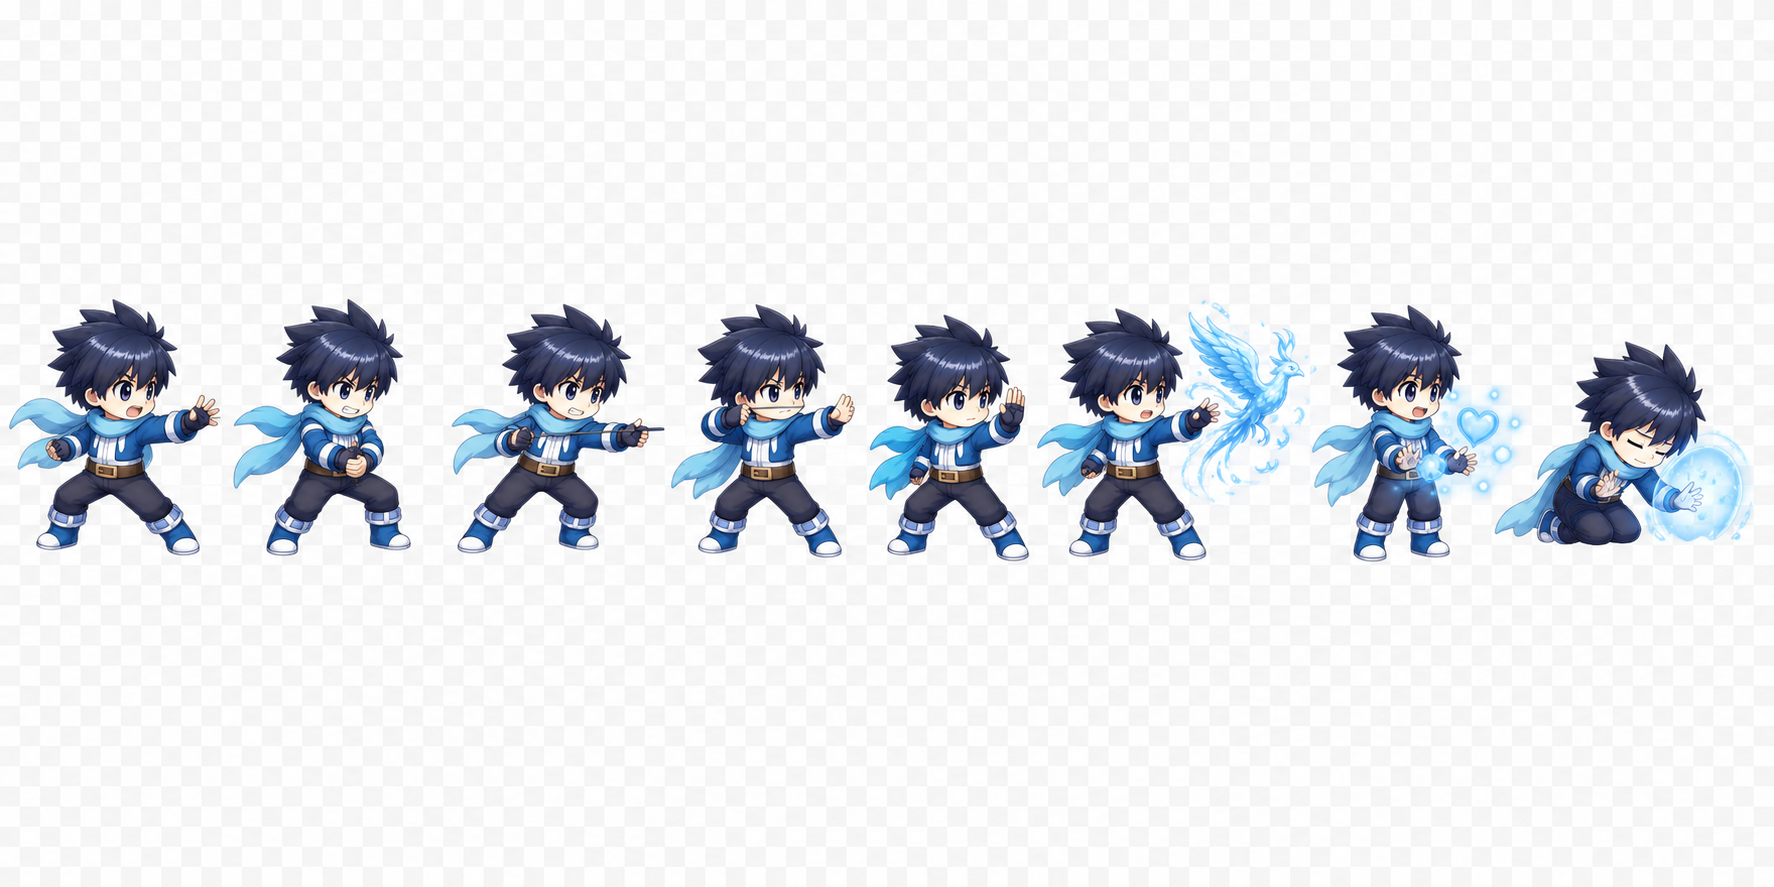
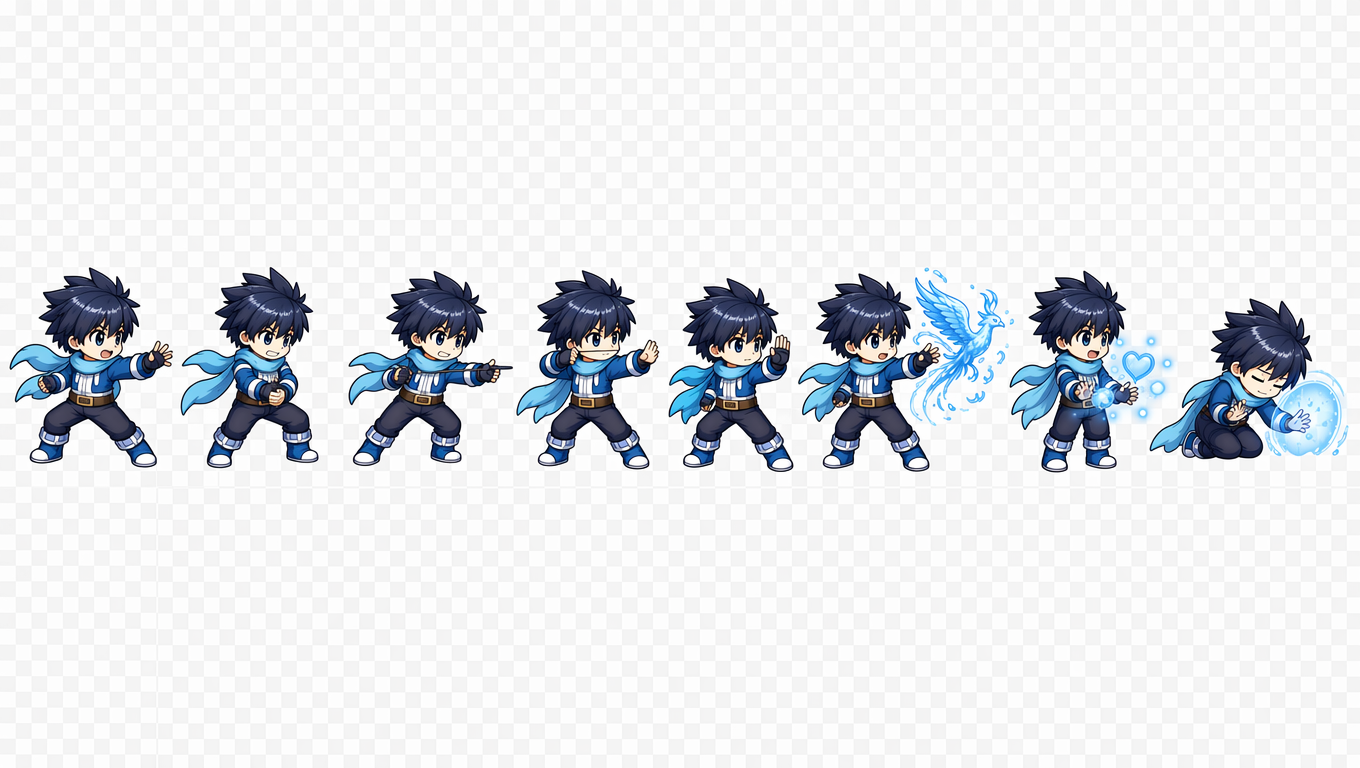
upgrade

Changed region(s): [[0.0, 0.3438, 0.9882, 0.6562]]

diff --git a/js/assets.js b/js/assets.js
@@ -19,8 +19,8 @@ const ASSETS = {
     float_ember: { trim: 1 }, float_star: { trim: 1 },
     prop_mushroom: { trim: 1 }, prop_gate: { trim: 1 }, prop_shrine: { trim: 1 },
     // heroes & supporters — legacy 8-pose sheets (fallback)
-    joku_sheet: { cols: 4, rows: 2, trim: 1, bleed: .025 },
-    jolie_sheet: { cols: 4, rows: 2, trim: 1, bleed: .025 },
+    joku_sheet: { cols: 4, rows: 2, trim: 1, bleed: .05, stableX: 1 },
+    jolie_sheet: { cols: 4, rows: 2, trim: 1, bleed: .05, stableX: 1 },
     lulu_sheet: { cols: 4, rows: 1, trim: 1, lockScale: 1 },
     biscuit_sheet: { cols: 4, rows: 1, trim: 1, lockScale: 1 },
     // heroes & supporters — animation strips (preferred when present)
@@ -111,10 +111,10 @@ const ASSETS = {
           const b = this._bbox(src, scan.sx, scan.sy, scan.sw, scan.sh, cfg.black);
           if (b) f = this._clampFrame(b, scan);
         }
-        frames.push(f);
+        frames.push(this._anchorFrame(f, cell));
       }
     }
-    this.data[name] = { ok: true, img: src, frames, black: !!cfg.black, basisH: cfg.lockScale ? this._basisHeight(frames) : 0 };
+    this.data[name] = { ok: true, img: src, frames, black: !!cfg.black, basisH: cfg.lockScale ? this._basisHeight(frames) : 0, stableX: !!(cfg.lockScale || cfg.stableX) };
     if (name.indexOf('portrait_') === 0) this._makePortrait(name, src);
     if (name === 'title_art') this._menuArt(img);
     if (name.indexOf('bg_') === 0) this._refreshLevelBg(name.slice(3));
@@ -150,6 +150,12 @@ const ASSETS = {
     const hs = frames.map(f => f.sh).filter(Boolean).sort((a, b) => a - b);
     if (!hs.length) return 0;
     return hs[Math.min(hs.length - 1, Math.max(0, Math.floor(hs.length * .55)))];
+  },
+
+  _anchorFrame(f, cell) {
+    return Object.assign(f, {
+      ox: (f.sx + f.sw / 2) - (cell.sx + cell.sw / 2)
+    });
   },
 
   _scale(img, sc) {
@@ -252,6 +258,7 @@ const ASSETS = {
     const basisH = o.basisH || d.basisH || f.sh;
     const s = o.h ? o.h / basisH : (o.w ? o.w / f.sw : 1);
     const dw = f.sw * s, dh = f.sh * s;
+    const dx = (o.stableX || d.stableX) ? (f.ox || 0) * s : 0;
     ctx.save();
     ctx.translate(x, y);
     if (o.rot) ctx.rotate(o.rot);
@@ -261,7 +268,7 @@ const ASSETS = {
     if (o.add) ctx.globalCompositeOperation = 'lighter';
     if (o.filter !== undefined && 'filter' in ctx) ctx.filter = o.filter;
     const ay = o.anchor === 'center' ? -dh / 2 : (o.anchor === 'top' ? 0 : -dh);
-    ctx.drawImage(d.img, f.sx, f.sy, f.sw, f.sh, -dw / 2, ay, dw, dh);
+    ctx.drawImage(d.img, f.sx, f.sy, f.sw, f.sh, -dw / 2 + dx, ay, dw, dh);
     ctx.restore();
     return true;
   },
@@ -274,6 +281,16 @@ const ASSETS = {
   loopFrame(name, phase) {
     const n = this.frameCount(name);
     return n ? (((phase | 0) % n) + n) % n : 0;
+  },
+
+  groundSnapY(x, y, below = 120, limit = 28) {
+    try {
+      if (typeof G === 'undefined' || typeof World === 'undefined' || !G.level) return y;
+      const top = World.topAt(G.level, x, y - below);
+      return top !== null && Math.abs(top - y) <= limit ? top : y;
+    } catch (e) {
+      return y;
+    }
   },
 
   heroActionIndex(p) {
@@ -319,12 +336,13 @@ const ASSETS = {
     return base;
   },
 
-  drawHeroWeapon(ctx, p, t, src, idx, attacking) {
+  drawHeroWeapon(ctx, p, t, src, idx, attacking, alpha = 1) {
     if (!p.weapon || typeof Weapons === 'undefined' || !Weapons[p.weapon]) return;
     const def = Weapons[p.weapon];
     const g = this.heroWeaponGrip(p, src, idx);
     const flash = U.clamp(p.weaponPose || 0, 0, 1);
     ctx.save();
+    ctx.globalAlpha *= alpha;
     ctx.scale(p.dir || 1, 1);
     ctx.translate(g.x, g.y);
     ctx.rotate((g.rot || 0) + (attacking ? -.14 : 0) + Math.sin(t * 3.2) * .02);
@@ -337,6 +355,22 @@ const ASSETS = {
     if (!this.drawWeaponGlyph(ctx, p.weapon, 0, 0, g.size || 22, t) && typeof Art !== 'undefined' && Art.drawWeaponGlyph) {
       Art.drawWeaponGlyph(ctx, p.weapon, 0, 0, g.size || 22, t);
     }
+    ctx.restore();
+  },
+
+  drawHeroEquipFx(ctx, p, t, src, idx) {
+    if (!p.weapon || typeof Weapons === 'undefined' || !Weapons[p.weapon] || typeof Art === 'undefined' || !Art.glow) return;
+    const def = Weapons[p.weapon];
+    const g = this.heroWeaponGrip(p, src, idx);
+    const pulse = .55 + Math.sin(t * 5.5) * .18;
+    ctx.save();
+    ctx.scale(p.dir || 1, 1);
+    ctx.globalCompositeOperation = 'lighter';
+    Art.glow(ctx, g.x, g.y, 7 + pulse * 5, def.color, .18);
+    ctx.fillStyle = def.color + 'cc';
+    ctx.beginPath();
+    ctx.arc(g.x, g.y, 1.8 + pulse * .8, 0, U.TAU);
+    ctx.fill();
     ctx.restore();
   },
 
@@ -365,8 +399,9 @@ const ASSETS = {
     const bounce = run ? Math.abs(Math.sin(p.animT * 12)) * .7 : (running ? Math.abs(Math.sin(p.animT * 13)) * 1.4 : Math.sin(t * 2.3) * 1.1);
     const H = 74;
 
+    const drawY = p.onGround ? this.groundSnapY(p.x, p.y, 130, 34) : p.y;
     ctx.save();
-    ctx.translate(p.x, p.y);
+    ctx.translate(p.x, drawY);
     if (p.pose === 'down') { ctx.rotate(-1.15 * p.dir); ctx.translate(0, -6); }
 
     // phoenix wings behind (double jump / dash)
@@ -404,12 +439,15 @@ const ASSETS = {
 
     // invulnerability flicker
     const flick = (p.invuln > .1 && !p.down && Math.sin(t * 22) > 0) ? .55 : 1;
+    const weaponFront = actionHot || atk || (p.weaponPose || 0) > .18;
+    if (p.weapon && !weaponFront) this.drawHeroWeapon(ctx, p, t, src, idx, false, .88);
     this.draw(ctx, src, idx, 0, -bounce * .45, {
       h: H, flip: p.dir < 0, sq: p.squash || 0, alpha: flick,
       filter: p.hurtT > .3 ? 'brightness(1.5) saturate(1.3)' : 'none'
     });
 
-    this.drawHeroWeapon(ctx, p, t, src, idx, actionHot || atk);
+    if (p.weapon && weaponFront) this.drawHeroWeapon(ctx, p, t, src, idx, true, .96);
+    else this.drawHeroEquipFx(ctx, p, t, src, idx);
     // Joku dash crescent
     if (p.dashT > 0) {
       this.draw(ctx, 'fx_projectiles', 2, p.dir * 26, -30, { h: 62, anchor: 'center', add: 1, alpha: .9, flip: p.dir < 0 });
@@ -440,8 +478,9 @@ const ASSETS = {
     if (action && this.has(actionSheet)) { src = actionSheet; idx = Math.min(idx - 2, this.frameCount(actionSheet) - 1); }
     else if (run && this.has(runSheet)) { src = runSheet; idx = this.loopFrame(runSheet, pet.animT * 14); }
     else if (!this.has(src)) { src = this.has(sheet) ? sheet : (this.has(runSheet) ? runSheet : actionSheet); idx = 0; }
+    const drawY = this.groundSnapY(pet.x, pet.y, 130, 48);
     const bob = run && src === runSheet ? Math.abs(Math.sin(pet.animT * 14)) * .8 : (run ? Math.abs(Math.sin(pet.animT * 15)) * 1.6 : Math.sin(t * 3) * 1);
-    this.draw(ctx, src, idx, pet.x, pet.y - bob, {
+    this.draw(ctx, src, idx, pet.x, drawY - bob, {
       h: name === 'lulu' ? 40 : 46, flip: pet.dir < 0,
       rot: run ? Math.sin(pet.animT * 14) * .035 : 0
     });
